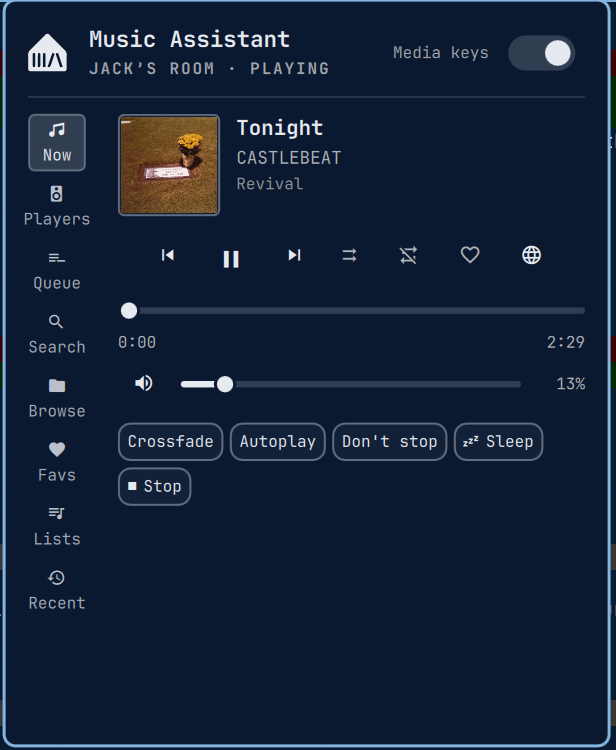
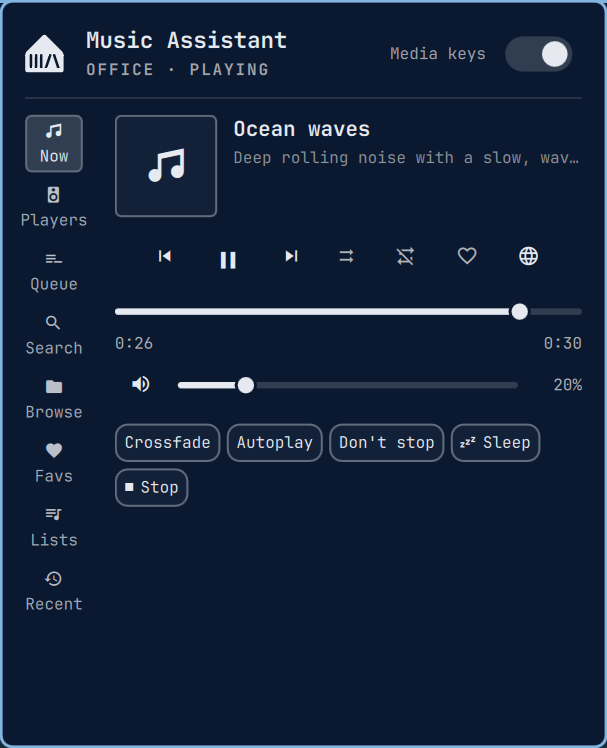
Replace marketplace preview with safe demo state

diff --git a/README.md b/README.md
@@ -79,7 +79,7 @@ A header shows the active player and its state. Eight tabs down the side:
 
 | Tab | What it does |
 |-----|--------------|
-| **Now** | Artwork, title, transport (previous, play/pause, next, shuffle, repeat, favorite, web UI), progress bar (click to seek), volume slider and mute. Chips for Crossfade, Autoplay, Don't stop the music, a sleep timer (click cycles 15 → 30 → 60 → 90 min → off) and Stop. |
+| **Now** | Album artwork when Music Assistant provides it, with a music-note fallback when it does not; title, transport (previous, play/pause, next, shuffle, repeat, favorite, web UI), progress bar (click to seek), volume slider and mute. Chips for Crossfade, Autoplay, Don't stop the music, a sleep timer (click cycles 15 → 30 → 60 → 90 min → off) and Stop. |
 | **Players** | Every player, sorted active → playing → idle → groups → unavailable. Click makes a player active and moves the queue to it; right-click mutes. **Join** groups a speaker with the active player, **Leave** removes it, **Ungroup** dissolves the active player's group. The volume slider moves the group when the active player leads one. |
 | **Queue** | Click plays an item, right-click removes it. Per-row buttons move it up, down, to the end, or remove it. **Save** (or `Ctrl+S`) asks for a name and saves the queue as a new library playlist, which appears in Lists a few seconds later; **Clear** empties it. |
 | **Search** | Searches tracks, albums, artists, playlists, radio, podcasts and audiobooks, with a filter chip per type. |

diff --git a/CHANGELOG.md b/CHANGELOG.md
@@ -10,6 +10,7 @@ and this project adheres to [Semantic Versioning](https://semver.org/spec/v2.0.0
 ### Changed
 - The README now lists runtime requirements and gives an explicit removal, token-revocation, and leftover-media-key recovery procedure for marketplace users.
 - The Music Assistant mark now has an exact source-commit notice, modification record, trademark disclaimer, and bundled Apache-2.0 license copy alongside the plugin's unchanged MIT license.
+- The marketplace preview now uses a generic Office player and the no-artwork fallback instead of personal room metadata and third-party album artwork. The README clarifies that supplied album artwork is displayed normally.
 
 ### Fixed
 - Media-key installation and removal now validate that the marked block is complete and unique before editing `bindings.lua`. Malformed markers fail closed instead of risking truncation. Successful changes use a same-directory temporary file, atomic rename, preserved permissions and a rollback backup.
